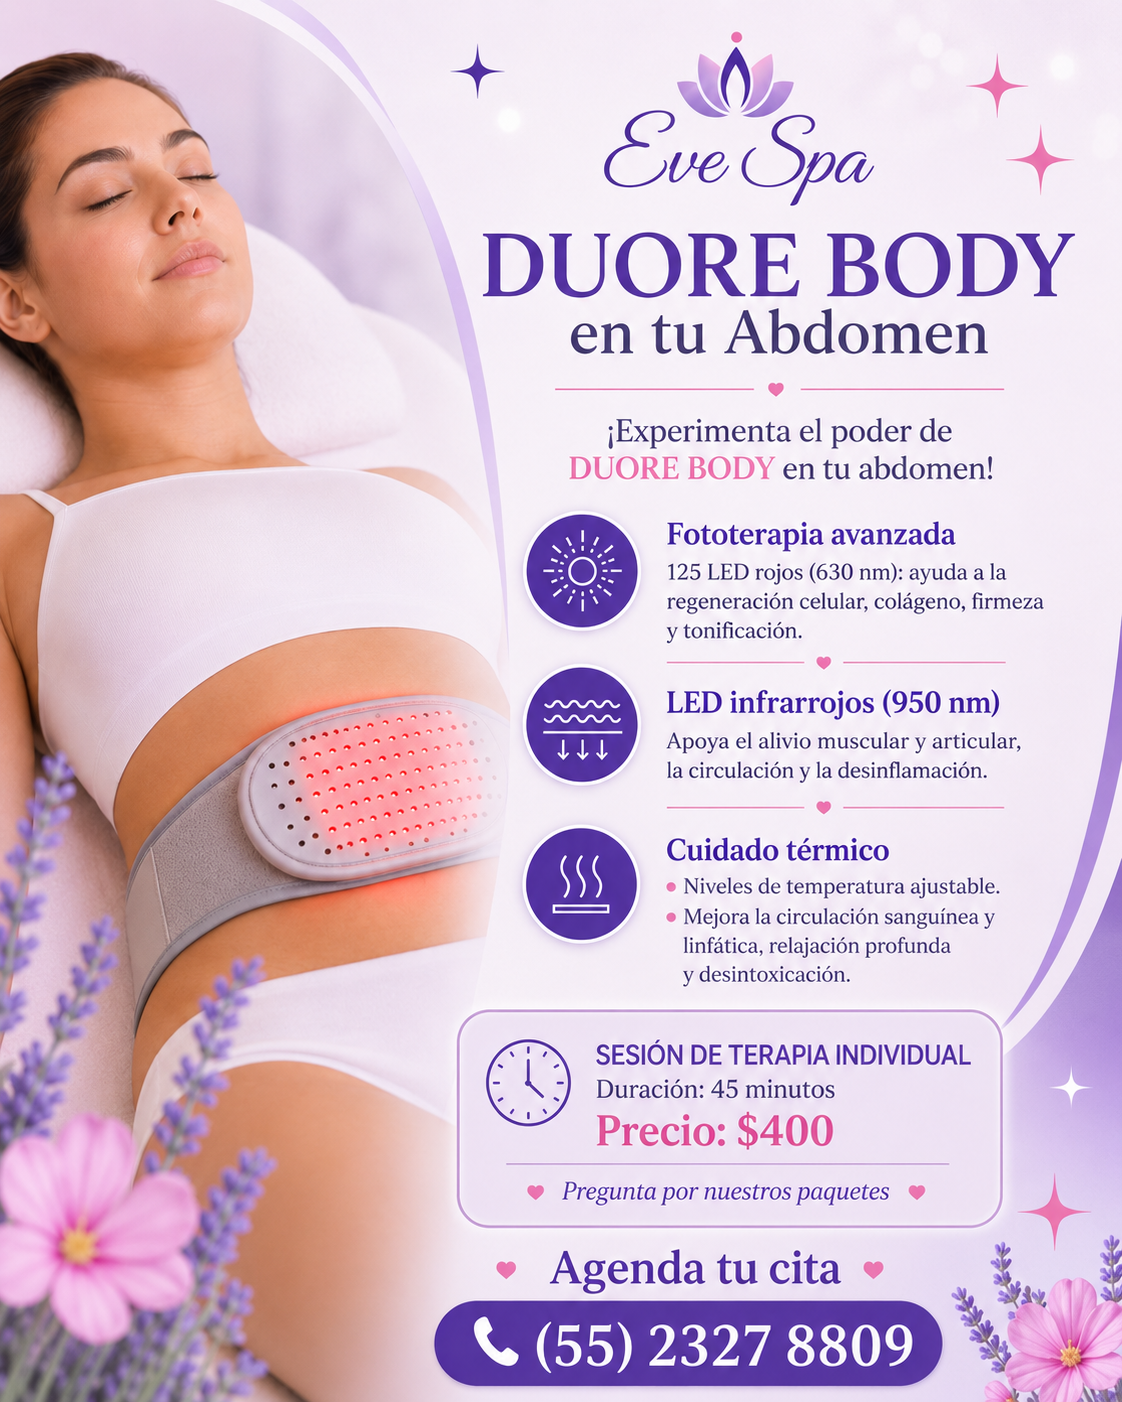
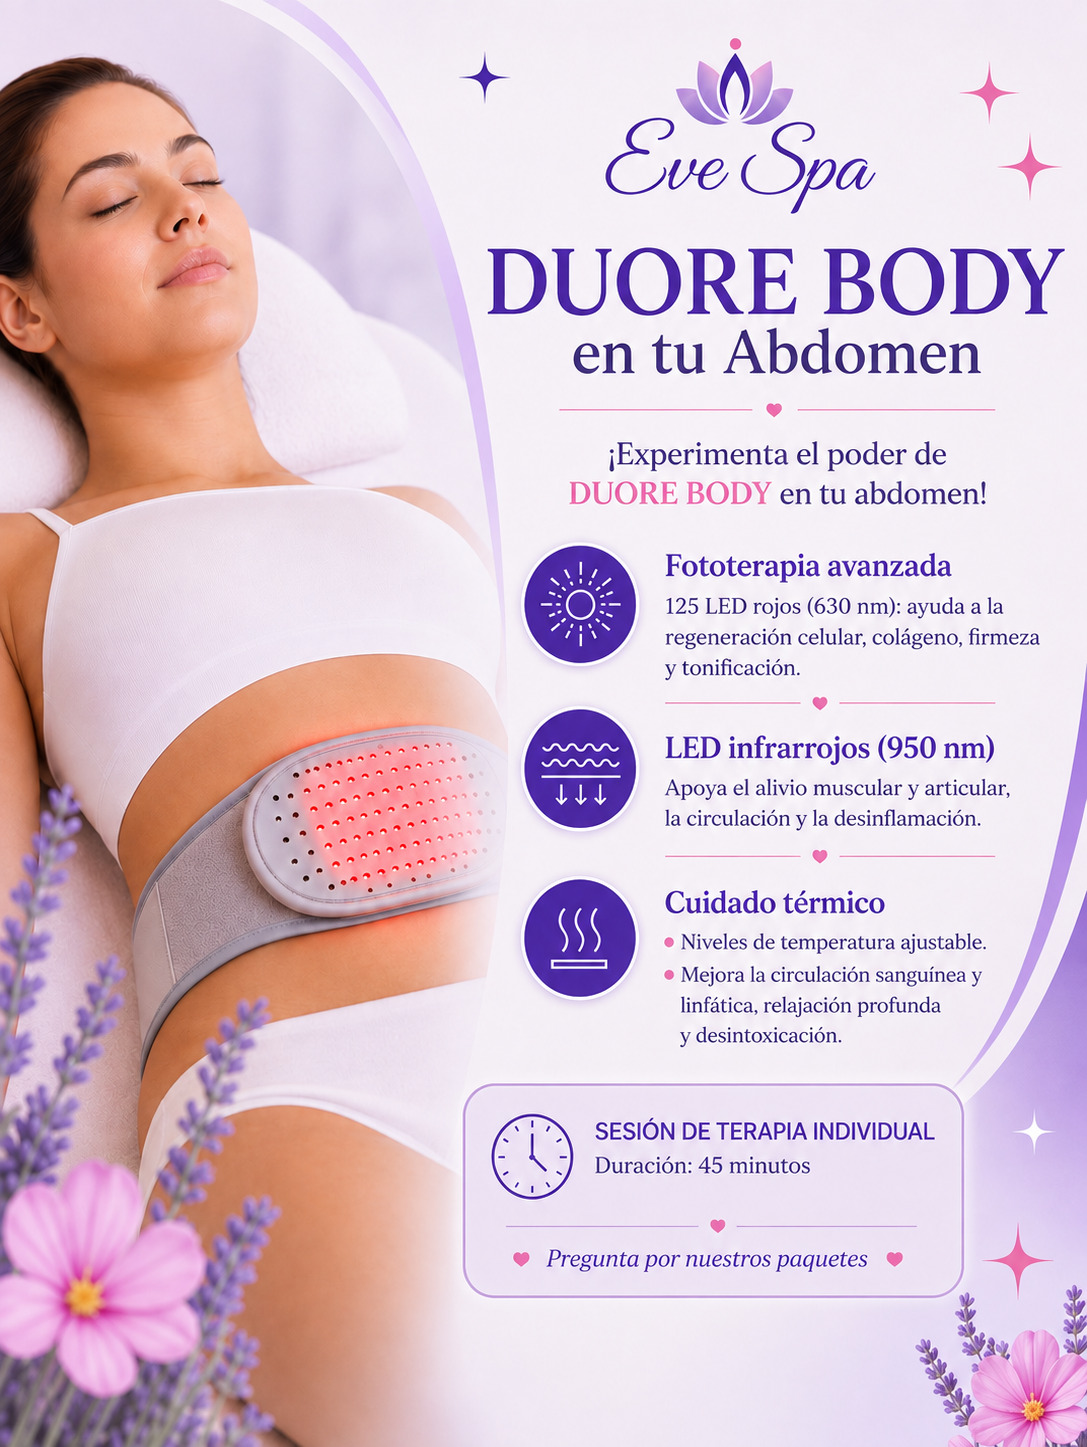
Actualizar imágenes de promociones y depilación

diff --git a/public/index.html b/public/index.html
@@ -23,7 +23,7 @@
   <div class="notice">Citas y pedidos por <a href="https://wa.me/525523278809" target="_blank" rel="noreferrer">WhatsApp</a>. Datos promocionales sujetos a confirmación.</div>
   <header class="wrap"><nav><a class="brand" href="#inicio">Eve Spa <small>× Quetzalzin</small></a><div class="links"><a href="#servicios">Servicios</a><a href="#catalogo">Catálogo</a><a href="#faq">Preguntas</a><a href="#contacto">Contacto</a></div><button class="cart-button" onclick="toggleCart()">Cotización <span id="count">0</span></button></nav></header>
   <main>
-    <section class="hero" id="inicio"><div class="wrap hero-grid"><div><span class="kicker">Bienestar & creación artesanal</span><h1>Un momento para ti.<br><em>Algo hecho para tu hogar.</em></h1><p>Reserva los servicios de Eve Spa y agrega piezas artesanales de Quetzalzin a una sola cotización.</p><div class="hero-actions"><a class="button rose" href="#servicios">Reservar servicio</a><a class="button alt" href="#catalogo">Explorar productos</a></div></div><figure class="hero-card"><img src="assets/eve-facial.png" alt="Promoción de Facial 2x1 de Eve Spa"><figcaption>Tu piel limpia, tu mejor versión <span class="flower">✦</span></figcaption></figure></div></section>
+    <section class="hero" id="inicio"><div class="wrap hero-grid"><div><span class="kicker">Bienestar & creación artesanal</span><h1>Un momento para ti.<br><em>Algo hecho para tu hogar.</em></h1><p>Reserva los servicios de Eve Spa y agrega piezas artesanales de Quetzalzin a una sola cotización.</p><div class="hero-actions"><a class="button rose" href="#servicios">Reservar servicio</a><a class="button alt" href="#catalogo">Explorar productos</a></div></div><figure class="hero-card"><img src="assets/facial_promocion.png" alt="Promoción facial de Eve Spa"><figcaption>Tu piel limpia, tu mejor versión <span class="flower">✦</span></figcaption></figure></div></section>
     <section class="wrap intro"><div><span class="chip">Dos experiencias, una cotización</span><h2>Cuida tu tiempo y elige a tu ritmo.</h2></div><div><p>Eve Spa reúne servicios de cuidado personal. Quetzalzin presenta cosmética, velas y piezas decorativas artesanales. Usa el carrito para preparar tu solicitud y recibir confirmación de disponibilidad por WhatsApp.</p><div class="warning">Los importes del catálogo y las promociones se muestran tal como fueron proporcionados. No se procesan pagos ni se garantizan beneficios médicos.</div></div></section>
     <section class="services" id="servicios"><div class="wrap"><div class="heading"><span class="chip">Eve Spa</span><h2>Servicios y promociones vigentes</h2><p>Selecciona lo que deseas cotizar. Las sesiones, zonas y disponibilidad deben confirmarse directamente con el spa.</p></div><div class="service-grid" id="services"></div></div></section>
     <section class="wrap"><div class="feature"><img src="assets/eve-duore.png" alt="Duore Body en abdomen"><div><span class="chip">Destacado de Eve Spa</span><h2>Duore Body en abdomen</h2><p>Sesión individual de 45 minutos. La publicación proporcionada indica un precio de $400 MXN.</p><ul><li>Fototerapia avanzada y LED infrarrojo (según publicación).</li><li>Cuidado térmico con niveles ajustables (según publicación).</li><li>Pregunta por paquetes y valoración de disponibilidad.</li></ul><button class="button rose" onclick="addService('Duore Body — sesión individual (45 min)',400)">Agregar a cotización · $400</button></div></div></section>
@@ -39,9 +39,9 @@
 const WHATSAPP='525523278809';
 const money=n=>new Intl.NumberFormat('es-MX',{style:'currency',currency:'MXN',maximumFractionDigits:0}).format(n);
 const services=[
- {name:'Depilación IPL — zonas pequeñas (8 sesiones)',price:1500,desc:'Axilas, contorno bikini o línea interglútea.',img:'assets/eve-ipl.png'},
- {name:'Depilación IPL — zonas medianas (8 sesiones)',price:2500,desc:'Espalda, brazos, glúteos o bikini completo.',img:'assets/eve-ipl.png'},
- {name:'Depilación IPL — zonas grandes (8 sesiones)',price:4500,desc:'Piernas completas o cuerpo completo. Precio/zonas sujetos a confirmación.',img:'assets/eve-ipl.png'},
+ {name:'Depilación IPL — zonas pequeñas (8 sesiones)',price:1500,desc:'Axilas, contorno bikini o línea interglútea.',img:'assets/depilacion_zonaspequenas.png'},
+ {name:'Depilación IPL — zonas medianas (8 sesiones)',price:2500,desc:'Espalda, brazos, glúteos o bikini completo.',img:'assets/depilacion_zonasmedianas.png'},
+ {name:'Depilación IPL — zonas grandes (8 sesiones)',price:4500,desc:'Piernas completas o cuerpo completo. Precio/zonas sujetos a confirmación.',img:'assets/depilacion_zonasgrandes.png'},
  {name:'Facial 2x1',price:700,desc:'Incluye hidrafacial, radiofrecuencia y ultrasonido según promoción. Indica 5 sesiones de bigote de regalo.',img:'assets/eve-facial.png'},
  {name:'Sauna — sesiones',price:1800,desc:'Promoción publicada por Eve Spa. Número de sesiones pendiente de confirmar.',img:'assets/eve-sauna.png'}];
 const products=[
@@ -71,7 +71,7 @@ const productsEl=document.getElementById('products');renderServices();renderFilt
     'plato_grande_2_velas.jpg', 'plato_grande_difusor.jpg', 'plato_grande_portavelas.jpg'
   ];
   const serviceImages = {
-    ipl: 'depilacion.png',
+    ipl: ['depilacion_zonaspequenas.png', 'depilacion_zonasmedianas.png', 'depilacion_zonasgrandes.png'],
     facial: 'facial.png',
     sauna: 'sauna.png',
     duore: 'duore_body.png'
@@ -80,7 +80,7 @@ const productsEl=document.getElementById('products');renderServices();renderFilt
   document.querySelector('.feature img').src = assetUrl(serviceImages.duore);
   const brand = document.querySelector('.brand');
   brand.insertAdjacentHTML('afterbegin', '<img class="brand-logo" src="' + assetUrl('logo.png') + '" alt="Logotipo Quetzalzin">');
-  services.forEach((service, index) => service.img = assetUrl(index < 3 ? serviceImages.ipl : index === 3 ? serviceImages.facial : serviceImages.sauna));
+  services.forEach((service, index) => service.img = assetUrl(index < 3 ? serviceImages.ipl[index] : index === 3 ? serviceImages.facial : serviceImages.sauna));
   renderServices();
   products.forEach((product, index) => product.image = productImages[index]);
   renderProducts = function () {
